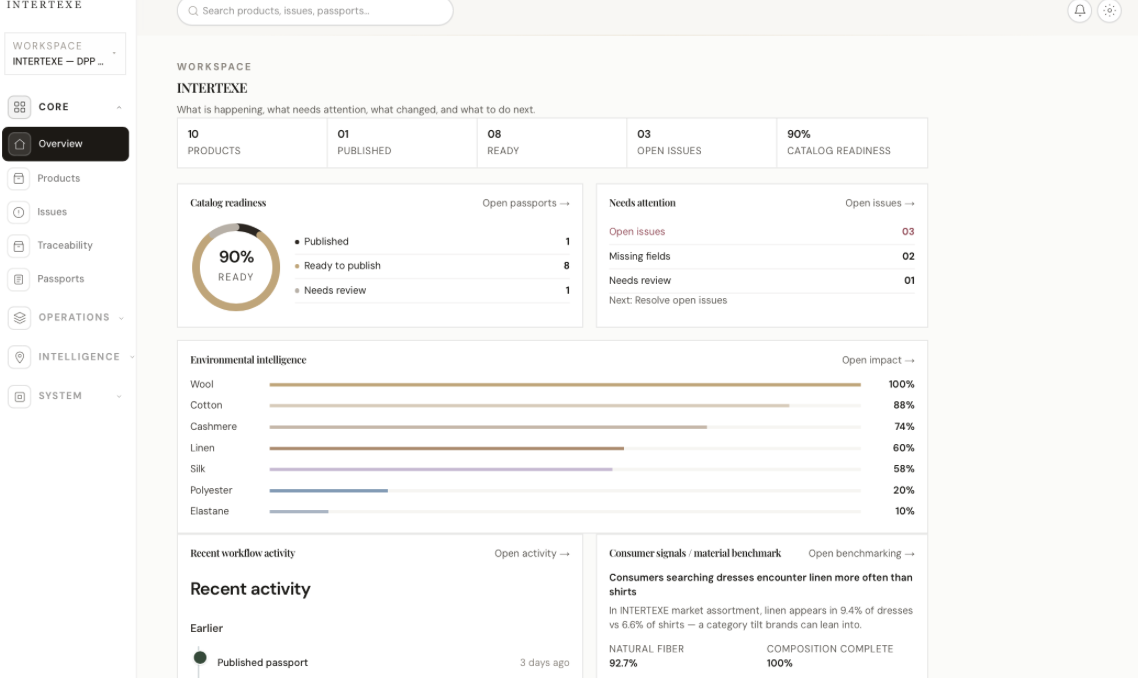
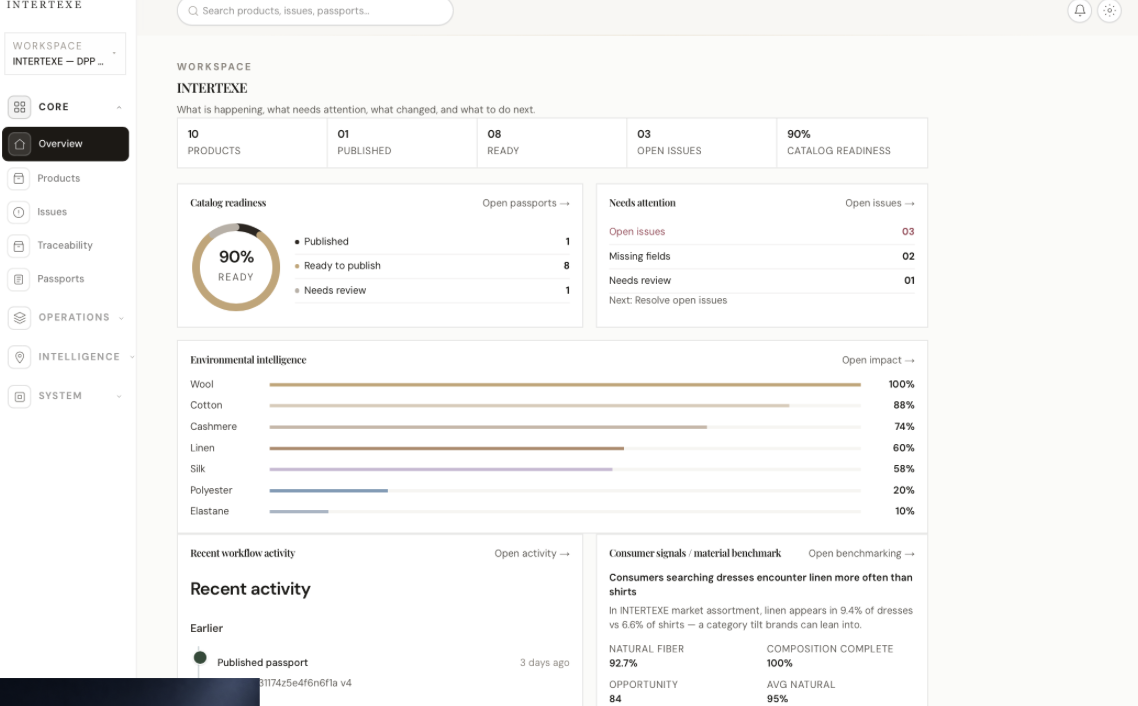
Use the provided workspace screenshots as-is beside Create through Extend.
Create uses the uploaded Overview screenshot exactly. Verify, Comply, Distribute, and Extend keep the original Issues, Operations, Product record, and Suppliers screenshots — not cropped or recaptured files.

diff --git a/app/platform/b2b-visuals/WhatItIsProcessVisual.tsx b/app/platform/b2b-visuals/WhatItIsProcessVisual.tsx
@@ -99,7 +99,7 @@ function StageGraphic({ slideId }: { slideId: SlideId }) {
           src={softwareSrc}
           alt={SOFTWARE_ALTS[slideId]}
           width={1138}
-          height={678}
+          height={706}
           className="platform-lifecycle-graphic-shot"
           sizes="(max-width: 767px) 92vw, 420px"
           priority
